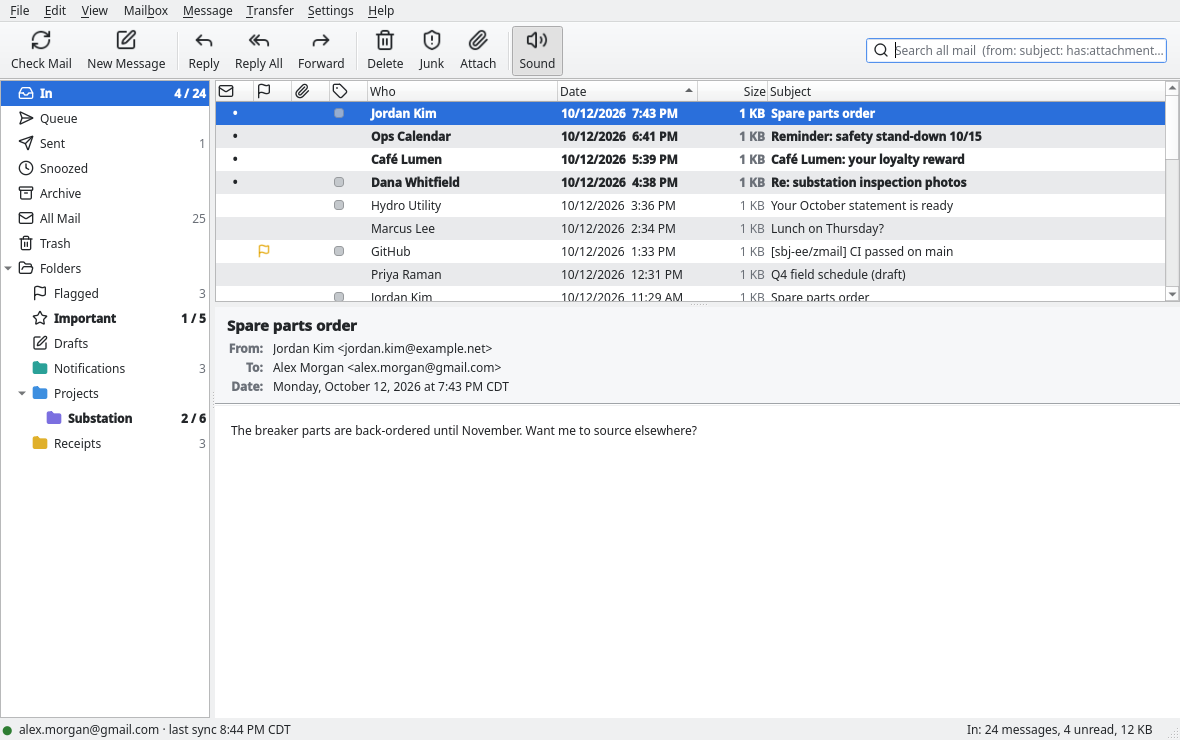
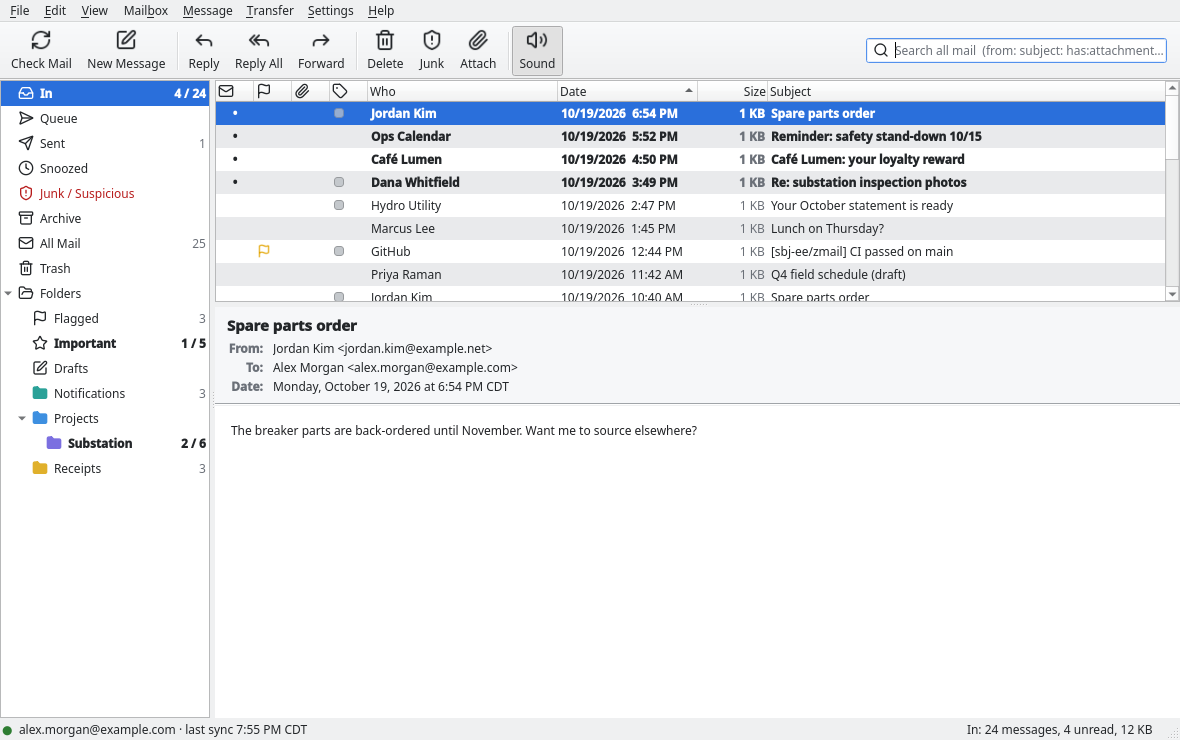
zmail 1.0.0: version bump and README for a public 1.0 (#103)
* zmail 1.0.0: version bump and README for a public 1.0

Version 1.0.0 in project() (title bar, About, update checks, .deb name) and
the tests' version checks. README: feature overview, Install (Releases,
minisign check with DBC46B23C3AF0EF3, sha256sum -c, apt install), app-password
quick start, release history moved to CHANGELOG.md. No code change.

* Docs and tests: no personal or real-domain addresses; regenerate screenshots

docs/PLAN.md no longer names a personal address. Test fixtures use
example.com / .example addresses (gmail.com, outlook.com, comed.com and
other registrable domains replaced). The app-password and IMAP screenshots
are regenerated offscreen against the fake servers.

diff --git a/tests/tst_emptyjunk.cpp b/tests/tst_emptyjunk.cpp
@@ -47,9 +47,9 @@ using zmail::test::MockGoogle;
 
 namespace {
 
-QByteArray mail(const QString &subject, const char *from = "Crypto Alerts <alerts@coin-boost.top>")
+QByteArray mail(const QString &subject, const char *from = "Crypto Alerts <alerts@coin-boost.example>")
 {
-    return QByteArray("From: ") + from + "\r\nTo: Alex Morgan <alex.morgan@gmail.com>\r\nSubject: " + subject.toUtf8()
+    return QByteArray("From: ") + from + "\r\nTo: Alex Morgan <alex.morgan@example.com>\r\nSubject: " + subject.toUtf8()
            + "\r\nDate: Mon, 12 Oct 2026 22:40:00 -0500\r\nMessage-ID: <" + subject.toUtf8().toHex().left(24)
            + "@mail.test>\r\nContent-Type: text/plain; charset=utf-8\r\n\r\nHello.\r\n";
 }
@@ -76,7 +76,7 @@ struct ImapRig
     explicit ImapRig(int spamCount, bool start = true)
     {
         for (int i = 0; i < 3; ++i) {
-            inbox << server.deliver(mail(QStringLiteral("Panel schedule %1").arg(i), "Dana Whitfield <dana@lakeshore-electric.com>"));
+            inbox << server.deliver(mail(QStringLiteral("Panel schedule %1").arg(i), "Dana Whitfield <dana@lakeshore-electric.example>"));
         }
         for (int i = 0; i < spamCount; ++i) {
             spam << server.deliver(mail(QStringLiteral("Double your balance %1").arg(i)), {QStringLiteral("\\Spam")});
@@ -167,7 +167,7 @@ struct ApiRig
     static MockGoogle::Message msg(const QString &subject, const QStringList &labels)
     {
         MockGoogle::Message m;
-        m.from = QStringLiteral("Crypto Alerts <alerts@coin-boost.top>");
+        m.from = QStringLiteral("Crypto Alerts <alerts@coin-boost.example>");
         m.to = QStringLiteral("demo.user@example.com");
         m.subject = subject;
         m.text = QStringLiteral("Body of ") + subject;
@@ -207,7 +207,7 @@ struct UiRig
 
     explicit UiRig(int spamCount)
     {
-        imap.deliver(mail(QStringLiteral("Panel schedule for the Oak St job"), "Dana Whitfield <dana.whitfield@lakeshore-electric.com>"));
+        imap.deliver(mail(QStringLiteral("Panel schedule for the Oak St job"), "Dana Whitfield <dana.whitfield@lakeshore-electric.example>"));
         imap.deliver(mail(QStringLiteral("Lunch on Thursday?"), "Sam Ortiz <sam.ortiz@example.org>"));
         imap.deliver(mail(QStringLiteral("Your October statement is ready"), "Northside Credit Union <statements@northside-cu.example>"));
         for (int i = 0; i < spamCount; ++i) {
@@ -215,7 +215,7 @@ struct UiRig
                                       : i < 4 ? QStringList{QStringLiteral("You have been selected"), QStringLiteral("Final notice: claim your prize"),
                                                             QStringLiteral("Cheap meds, no prescription")}.at(i - 1)
                                               : QStringLiteral("Prize notice %1").arg(i),
-                                      i % 2 ? "Prize Desk <winner@prize-desk.biz>" : "Crypto Alerts <alerts@coin-boost.top>"),
+                                      i % 2 ? "Prize Desk <winner@prize-desk.example>" : "Crypto Alerts <alerts@coin-boost.example>"),
                                  {QStringLiteral("\\Spam")});
         }
         store.values.insert(AppPasswordAccount::appPasswordKey(imap.user), imap.password);

diff --git a/tests/dialogshot.cpp b/tests/dialogshot.cpp
@@ -66,7 +66,7 @@ void shoot(QWidget *w, const QString &path)
 void fill(ui::AppPasswordDialog &d, const QString &pw)
 {
     d.findChild<QLineEdit *>(QStringLiteral("displayNameEdit"))->setText(QStringLiteral("Alex Morgan"));
-    d.findChild<QLineEdit *>(QStringLiteral("emailEdit"))->setText(QStringLiteral("alex.morgan@gmail.com"));
+    d.findChild<QLineEdit *>(QStringLiteral("emailEdit"))->setText(QStringLiteral("alex.morgan@example.com"));
     d.findChild<QLineEdit *>(QStringLiteral("appPasswordEdit"))->setText(pw);
 }
 bool waitTest(ui::AppPasswordDialog &d)
@@ -222,7 +222,7 @@ int main(int argc, char *argv[])
             d.subject = QStringLiteral("From line with your name");
             c.setDraft(d);
             c.findChild<QTextEdit *>(QStringLiteral("composeBody"))
-                ->setPlainText(QStringLiteral("From now shows \u201cAlex Morgan <alex.morgan@gmail.com>\u201d: set in the account "
+                ->setPlainText(QStringLiteral("From now shows \u201cAlex Morgan <alex.morgan@example.com>\u201d: set in the account "
                                               "dialog or Settings \u2192 Your Name\u2026"));
             c.resize(820, 420);
             c.show();
@@ -263,7 +263,7 @@ int main(int argc, char *argv[])
             snap("imap-drafts.png");
             for (const char *subj : {"Site visit moved to Thursday", "Invoice 4471 follow-up"}) {
                 MailCache::QueuedMessage q;
-                q.mime = QByteArray("From: Alex Morgan <alex.morgan@gmail.com>\r\nTo: Marcus Lee <marcus.lee@example.org>\r\n"
+                q.mime = QByteArray("From: Alex Morgan <alex.morgan@example.com>\r\nTo: Marcus Lee <marcus.lee@example.org>\r\n"
                                     "Subject: ") + subj + "\r\nMIME-Version: 1.0\r\nContent-Type: text/plain\r\n\r\n"
                                     "Sent with File > Send Queued Messages over SMTP.\r\n";
                 q.subject = QString::fromLatin1(subj);
@@ -310,7 +310,7 @@ int main(int argc, char *argv[])
             QSignalSpy got(sync, &SyncEngine::newMail);
             QTest::qWaitFor([&] { return imap.anyIdling(); }, 5000);
             const QByteArray pdf("%PDF-1.4 fake demo bytes\n");
-            imap.deliver("From: Jordan Kim <jordan.kim@example.net>\r\nTo: alex.morgan@gmail.com\r\n"
+            imap.deliver("From: Jordan Kim <jordan.kim@example.net>\r\nTo: alex.morgan@example.com\r\n"
                          "Subject: Breaker spec sheet (attachment over IMAP)\r\nMIME-Version: 1.0\r\n"
                          "Content-Type: multipart/mixed; boundary=b1\r\n\r\n--b1\r\nContent-Type: text/plain\r\n\r\n"
                          "Spec sheet attached; File > Save Attachments fetches it over IMAP.\r\n--b1\r\n"

diff --git a/tests/tst_send.cpp b/tests/tst_send.cpp
@@ -270,7 +270,7 @@ private slots:
         OutgoingMessage m;
         m.from = QStringLiteral("Demo User <demo.user@example.com>");
         m.to = QStringLiteral("\"Raman, Priya\" <priya.raman@example.com>, h.lindqvist@example.com");
-        m.cc = QStringLiteral("José Núñez <jose@example.es>");
+        m.cc = QStringLiteral("José Núñez <jose@example.org>");
         m.bcc = QStringLiteral("audit@example.com");
         m.subject = QStringLiteral("Q4 budget — numbers attached ✓");
         m.text = QStringLiteral("Hi Priya,\n\nNumbers attached. Café at 3?\n");
@@ -289,10 +289,10 @@ private slots:
         QCOMPARE(p.headers.value("to"),
                  QStringLiteral("\"Raman, Priya\" <priya.raman@example.com>, h.lindqvist@example.com"));
         QVERIFY(p.headers.value("cc").startsWith(QStringLiteral("=?UTF-8?")));
-        QCOMPARE(decodeWords(p.headers.value("cc")), QStringLiteral("José Núñez <jose@example.es>"));
+        QCOMPARE(decodeWords(p.headers.value("cc")), QStringLiteral("José Núñez <jose@example.org>"));
         QCOMPARE(p.headers.value("bcc"), QStringLiteral("audit@example.com")); // Gmail strips it on delivery
         QCOMPARE(decodeWords(p.headers.value("subject")), m.subject);
-        QVERIFY(p.headers.value("user-agent").startsWith(QStringLiteral("zmail/0.9.3")));
+        QVERIFY(p.headers.value("user-agent").startsWith(QStringLiteral("zmail/1.0.0")));
 
         // multipart/mixed( multipart/alternative(text, html), attachment )
         const QString ct = p.headers.value("content-type");
@@ -368,8 +368,8 @@ private slots:
 
     void addressListsSplitOnUnquotedCommas()
     {
-        QCOMPARE(MimeBuilder::splitAddresses(QStringLiteral("\"Raman, Priya\" <p@x.com>, b@x.com,, <c@x.com>")),
-                 (QStringList{QStringLiteral("\"Raman, Priya\" <p@x.com>"), QStringLiteral("b@x.com"), QStringLiteral("<c@x.com>")}));
+        QCOMPARE(MimeBuilder::splitAddresses(QStringLiteral("\"Raman, Priya\" <p@x.example>, b@x.example,, <c@x.example>")),
+                 (QStringList{QStringLiteral("\"Raman, Priya\" <p@x.example>"), QStringLiteral("b@x.example"), QStringLiteral("<c@x.example>")}));
     }
 
     // ---- formats -----------------------------------------------------------------

diff --git a/tests/tst_imapextras.cpp b/tests/tst_imapextras.cpp
@@ -59,7 +59,7 @@ struct Engine
 
 QByteArray mail(const QByteArray &subject)
 {
-    return "From: Alex Morgan <alex.morgan@gmail.com>\r\nTo: priya@northwind.example\r\nSubject: " + subject
+    return "From: Alex Morgan <alex.morgan@example.com>\r\nTo: priya@northwind.example\r\nSubject: " + subject
         + "\r\nMIME-Version: 1.0\r\nContent-Type: text/plain\r\n\r\nHello.\r\n";
 }
 
@@ -315,7 +315,7 @@ private slots:
         auto *name = d.findChild<QLineEdit *>(QStringLiteral("displayNameEdit"));
         QVERIFY(name);
         name->setText(QStringLiteral("  Alex Morgan "));
-        d.findChild<QLineEdit *>(QStringLiteral("emailEdit"))->setText(QStringLiteral("alex.morgan@gmail.com"));
+        d.findChild<QLineEdit *>(QStringLiteral("emailEdit"))->setText(QStringLiteral("alex.morgan@example.com"));
         QCOMPARE(d.account().displayName, QStringLiteral("Alex Morgan"));
 
         FakeImapServer imap;
@@ -342,17 +342,17 @@ private slots:
         MainWindow w;
         w.setSession(&session);
         session.restoreSaved();
-        QCOMPARE(session.fromHeader(), QStringLiteral("Alex Morgan <alex.morgan@gmail.com>"));
+        QCOMPARE(session.fromHeader(), QStringLiteral("Alex Morgan <alex.morgan@example.com>"));
 
         QSignalSpy identity(&session, &MailSession::identityChanged);
         const QString answer = QStringLiteral("Morgan, Alex");
         QVERIFY(w.editDisplayName(&answer));
         QCOMPARE(identity.count(), 1);
-        QCOMPARE(session.fromHeader(), QStringLiteral("\"Morgan, Alex\" <alex.morgan@gmail.com>"));
+        QCOMPARE(session.fromHeader(), QStringLiteral("\"Morgan, Alex\" <alex.morgan@example.com>"));
         QCOMPARE(AppPasswordAccount::load(QSettings()).displayName, answer);
         const QString blank;
         QVERIFY(w.editDisplayName(&blank));
-        QCOMPARE(session.fromHeader(), QStringLiteral("alex.morgan@gmail.com"));
+        QCOMPARE(session.fromHeader(), QStringLiteral("alex.morgan@example.com"));
 
         // No vacation responder over IMAP/SMTP: say where to set it instead.
         QVERIFY(!w.showVacationDialog());

diff --git a/tests/tst_nodemo.cpp b/tests/tst_nodemo.cpp
@@ -26,7 +26,7 @@ namespace {
 
 QByteArray mail(const char *from, const char *subject, const char *date, const char *body)
 {
-    return QByteArray("From: ") + from + "\r\nTo: Stephen Johnson <stephen@gmail.com>\r\nSubject: " + subject
+    return QByteArray("From: ") + from + "\r\nTo: Stephen Johnson <stephen@example.com>\r\nSubject: " + subject
            + "\r\nDate: " + date + "\r\nMessage-ID: <" + QByteArray(subject).toHex().left(24)
            + "@mail.test>\r\nContent-Type: text/plain; charset=utf-8\r\n\r\n" + body + "\r\n";
 }
@@ -78,13 +78,13 @@ struct Live
 
     Live()
     {
-        imap.deliver(mail("Dana Whitfield <dana.whitfield@lakeshore-electric.com>", "Panel schedule for the Oak St job",
+        imap.deliver(mail("Dana Whitfield <dana.whitfield@lakeshore-electric.example>", "Panel schedule for the Oak St job",
                           "Mon, 12 Oct 2026 09:14:00 -0500", "Revised panel schedule attached for review."));
         imap.deliver(mail("Chicago Public Library <noreply@chipublib.org>", "Your hold is ready for pickup",
                           "Mon, 12 Oct 2026 13:02:00 -0500", "Your hold is ready at the Lincoln Park branch."));
-        imap.deliver(mail("Mark Ostrowski <mark.ostrowski@outlook.com>", "Saturday tee time",
+        imap.deliver(mail("Mark Ostrowski <mark.ostrowski@example.net>", "Saturday tee time",
                           "Tue, 13 Oct 2026 07:45:00 -0500", "8:10 at Harborside, still on?"));
-        imap.deliver(mail("ComEd <billing@comed.com>", "Your October bill is ready",
+        imap.deliver(mail("Northside Power <billing@northside-power.example>", "Your October bill is ready",
                           "Tue, 13 Oct 2026 08:30:00 -0500", "Amount due: $112.40."));
         store.values.insert(AppPasswordAccount::appPasswordKey(imap.user), imap.password);
         AppPasswordAccount a;

diff --git a/tests/tst_imapspam.cpp b/tests/tst_imapspam.cpp
@@ -23,7 +23,7 @@ namespace {
 
 QByteArray mail(const char *from, const char *subject, const char *date)
 {
-    return QByteArray("From: ") + from + "\r\nTo: Stephen Johnson <stephen@gmail.com>\r\nSubject: " + subject
+    return QByteArray("From: ") + from + "\r\nTo: Stephen Johnson <stephen@example.com>\r\nSubject: " + subject
            + "\r\nDate: " + date + "\r\nMessage-ID: <" + QByteArray(subject).toHex().left(24)
            + "@mail.test>\r\nContent-Type: text/plain; charset=utf-8\r\n\r\nHello.\r\n";
 }
@@ -40,11 +40,11 @@ struct Rig
 
     Rig()
     {
-        keep = imap.deliver(mail("Dana Whitfield <dana.whitfield@lakeshore-electric.com>", "Panel schedule for the Oak St job",
+        keep = imap.deliver(mail("Dana Whitfield <dana.whitfield@lakeshore-electric.example>", "Panel schedule for the Oak St job",
                                  "Mon, 12 Oct 2026 09:14:00 -0500"));
-        junk = imap.deliver(mail("Prize Desk <winner@prize-desk.biz>", "You have been selected",
+        junk = imap.deliver(mail("Prize Desk <winner@prize-desk.example>", "You have been selected",
                                  "Tue, 13 Oct 2026 06:02:00 -0500"));
-        spam = imap.deliver(mail("Crypto Alerts <alerts@coin-boost.top>", "Double your balance today",
+        spam = imap.deliver(mail("Crypto Alerts <alerts@coin-boost.example>", "Double your balance today",
                                  "Mon, 12 Oct 2026 22:40:00 -0500"),
                             {QStringLiteral("\\Spam")});
         store.values.insert(AppPasswordAccount::appPasswordKey(imap.user), imap.password);

diff --git a/tests/mock/FakeImapServer.cpp b/tests/mock/FakeImapServer.cpp
@@ -860,7 +860,7 @@ QByteArray FakeImapServer::makeMessage(const QString &fromName, const QString &f
     const QDateTime date = dateIn.isValid() ? dateIn : QDateTime::currentDateTime();
     QByteArray m;
     m += "From: " + fromName.toUtf8() + " <" + fromAddr.toUtf8() + ">\r\n";
-    m += "To: Alex Morgan <alex.morgan@gmail.com>\r\n";
+    m += "To: Alex Morgan <alex.morgan@example.com>\r\n";
     // Non-ASCII subjects go out as RFC 2047 encoded-words, as real mail does.
     bool ascii = true;
     for (const QChar c : subject) {
@@ -929,7 +929,7 @@ void FakeImapServer::seedDemo(int count)
                             QString::fromUtf8(p.text), html, when),
                 labels, flags, QLocale::c().toString(when.toUTC(), QStringLiteral("dd-MMM-yyyy HH:mm:ss +0000")));
     }
-    deliver(makeMessage(QStringLiteral("Alex Morgan"), QStringLiteral("alex.morgan@gmail.com"),
+    deliver(makeMessage(QStringLiteral("Alex Morgan"), QStringLiteral("alex.morgan@example.com"),
                         QStringLiteral("Re: Lunch on Thursday?"), QStringLiteral("Thursday works. See you at noon.")),
             {QStringLiteral("\\Sent")}, {QStringLiteral("\\Seen")});
 }

diff --git a/tests/tst_smtp.cpp b/tests/tst_smtp.cpp
@@ -25,7 +25,7 @@ namespace {
 
 QByteArray mail(const QByteArray &subject, const QByteArray &extraHeaders = {}, const QByteArray &body = "Hello.\r\n")
 {
-    return "From: Alex Morgan <alex.morgan@gmail.com>\r\n"
+    return "From: Alex Morgan <alex.morgan@example.com>\r\n"
            "To: \"Raman, Priya\" <priya@northwind.example>, marcus.lee@example.org\r\n"
            "Cc: Dana <dana@whitfield.example>\r\n"
            + extraHeaders + "Subject: " + subject + "\r\nMessage-ID: <" + subject.toHex().left(16)
@@ -129,7 +129,7 @@ private slots:
         QVERIFY2(res.ok, qPrintable(res.err.message));
         QCOMPARE(r.smtp.delivered.size(), 1);
         const auto &d = r.smtp.delivered.first();
-        QCOMPARE(d.from, QByteArray("alex.morgan@gmail.com"));
+        QCOMPARE(d.from, QByteArray("alex.morgan@example.com"));
         QCOMPARE(d.rcpts.size(), 4);
         QVERIFY(d.rcpts.contains("boss@northwind.example"));
         QVERIFY(!d.data.contains("boss@northwind.example")); // Bcc stays out of the message

diff --git a/tests/tst_imapactions.cpp b/tests/tst_imapactions.cpp
@@ -298,7 +298,7 @@ private slots:
         Rig r(3);
         const QByteArray pdf("%PDF-1.4 fake test bytes\n\x01\x02\x03", 28);
         const QByteArray raw =
-            "From: Jordan Kim <jordan.kim@example.net>\r\nTo: alex.morgan@gmail.com\r\nSubject: Breaker spec sheet\r\n"
+            "From: Jordan Kim <jordan.kim@example.net>\r\nTo: alex.morgan@example.com\r\nSubject: Breaker spec sheet\r\n"
             "Message-ID: <spec@example.net>\r\nMIME-Version: 1.0\r\nContent-Type: multipart/mixed; boundary=b1\r\n\r\n"
             "--b1\r\nContent-Type: text/plain\r\n\r\nSpec sheet attached.\r\n"
             "--b1\r\nContent-Type: application/pdf; name=\"breaker-spec.pdf\"\r\n"

diff --git a/src/core/AppPasswordAccount.h b/src/core/AppPasswordAccount.h
@@ -19,7 +19,7 @@ enum class AccountKind { GmailOAuth, GmailAppPassword };
 struct AppPasswordAccount
 {
     QString email;
-    QString displayName; // shown in From: "Alex Morgan <alex@gmail.com>" (optional)
+    QString displayName; // shown in From: "Alex Morgan <alex@example.com>" (optional)
     QString imapHost = QStringLiteral("imap.gmail.com");
     int imapPort = 993;
     QString smtpHost = QStringLiteral("smtp.gmail.com");

diff --git a/tests/mock/FakeSmtpServer.h b/tests/mock/FakeSmtpServer.h
@@ -51,7 +51,7 @@ public:
     }
     quint16 port() const { return m_server.serverPort(); }
 
-    QString user = QStringLiteral("alex.morgan@gmail.com");
+    QString user = QStringLiteral("alex.morgan@example.com");
     QString password = QStringLiteral("abcdefghijklmnop"); // made up
     QList<Delivery> delivered;
     QList<QByteArray> commands;      // command lines; AUTH's argument is masked

diff --git a/tests/mock/FakeImapServer.h b/tests/mock/FakeImapServer.h
@@ -41,7 +41,7 @@ public:
     ~FakeImapServer() override;
 
     quint16 port() const { return m_server.serverPort(); }
-    QString user = QStringLiteral("alex.morgan@gmail.com");
+    QString user = QStringLiteral("alex.morgan@example.com");
     QString password = QStringLiteral("abcdefghijklmnop"); // made up
     bool idleCapable = true;
     bool condstoreCapable = true;
